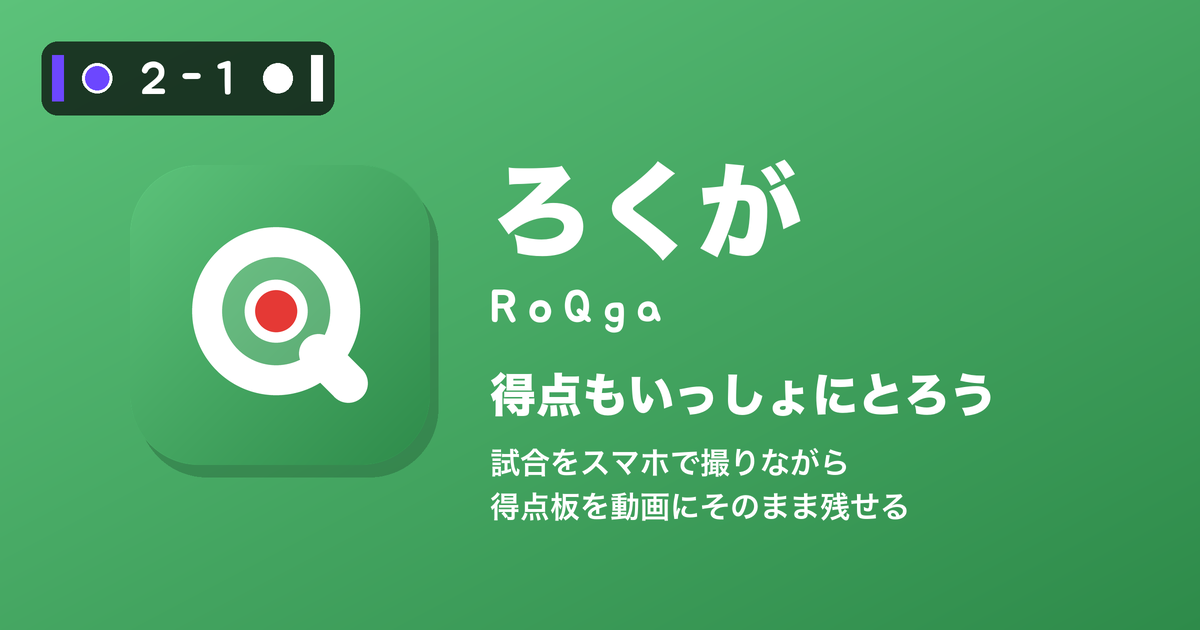
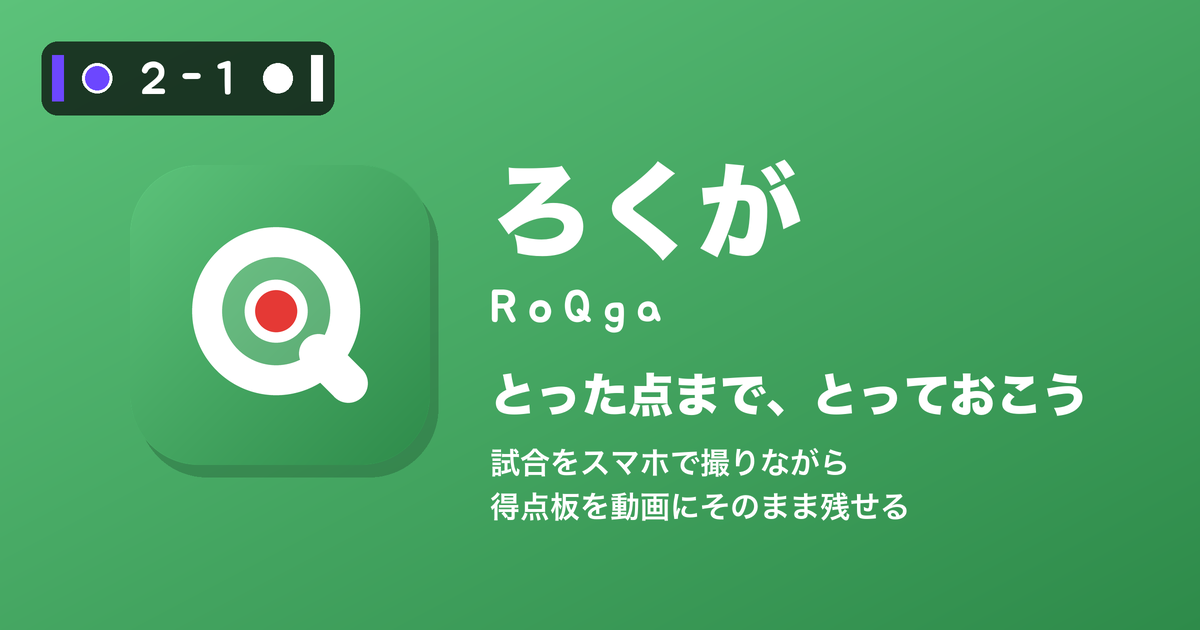
キャッチコピーを「とった点まで、とっておこう」に

Changed region(s): [[0.4008, 0.573, 0.925, 0.6635]]

diff --git a/index.html b/index.html
@@ -11,7 +11,7 @@
 <meta property="og:description" content="試合をスマホで撮りながら、得点板（チーム名とスコア）を動画にそのまま残せます">
 <meta property="og:url" content="https://katsuan.github.io/score-recorder/">
 <meta property="og:locale" content="ja_JP">
-<meta property="og:image" content="https://katsuan.github.io/score-recorder/ogp.png?v=20261021d">
+<meta property="og:image" content="https://katsuan.github.io/score-recorder/ogp.png?v=20261021e">
 <meta property="og:image:width" content="1200">
 <meta property="og:image:height" content="630">
 <meta property="og:image:alt" content="ろくが（RoQga）：試合をスマホで撮りながら、得点板を動画にそのまま残せる">
@@ -24,13 +24,13 @@
 <link rel="manifest" href="manifest.webmanifest">
 <link rel="preconnect" href="https://fonts.googleapis.com">
 <link href="https://fonts.googleapis.com/css2?family=M+PLUS+Rounded+1c:wght@400;700;800&display=swap" rel="stylesheet">
-<link rel="stylesheet" href="style.css?v=202610210351">
+<link rel="stylesheet" href="style.css?v=202610210404">
 </head>
 <body>
 <!-- はじめの画面：チーム名・色を決めて、カメラを開く（さくせん盤で入れたチーム名・色があれば、それを使う） -->
 <main id="setup" class="setup">
   <h1><img class="logo" src="icon.svg" alt="" width="28" height="28">ろくが<small>RoQga</small></h1>
-  <p class="copy">得点もいっしょにとろう</p>
+  <p class="copy">とった点まで、とっておこう</p>
   <p class="lead">試合を撮りながら、得点板（チーム名とスコア）を動画にそのまま入れて残します。<br>スマホは<b>横向き</b>で使います。</p>
   <!-- チーム：得点板と同じく、左が自チーム・右が相手。名前・色・▼（保存したチームから選ぶ）・保存／消す。
        保存したチームは自チーム・相手で同じ一覧（よく当たる相手も保存できる） -->
@@ -149,7 +149,7 @@
   </div>
 </div>
 
-<script src="app.js?v=202610210351"></script>
+<script src="app.js?v=202610210404"></script>
 <!-- おくるんのカードの入口（LIFF ID とカードの URL は line-share の shared/oqrn.js に1か所）と、紹介の窓口 -->
 <script src="https://katsuan.github.io/line-share/shared/oqrn.js"></script>
 <script src="https://katsuan.github.io/line-share/shared/tool-share.js" data-tool="roqga" defer></script>

diff --git a/tools/icon.py b/tools/icon.py
@@ -1,7 +1,7 @@
 #!/usr/bin/env python3
 """ろくが（RoQga）のアイコン・ロゴ・OGP を作る。
 
-名前は「ろくが」（録画）。キャッチコピーは「得点もいっしょにとろう」（撮る＝録画と、取る＝点を取るのかけことば）。英字は RoQga（おくるん＝OQRN・キロっく＝kiloQ と同じ作り方で、「く」を Q にする）。
+名前は「ろくが」（録画）。キャッチコピーは「とった点まで、とっておこう」（取った点＝ゴールまで、撮っておく＝録画のかけことば）。英字は RoQga（おくるん＝OQRN・キロっく＝kiloQ と同じ作り方で、「く」を Q にする）。
 アイコンはおくるんと同じ角の丸い四角に、さくせん盤と同じピッチの緑（さくせん盤の追加アプリなので）。録画のランプだけ赤。
 Q はカメラのレンズの輪：白い輪の真ん中に、録画中の赤いランプ（白い丸の中の赤い点）。Q のしっぽは右下へ、短く太く（細長いと虫めがねに見える）。
 
@@ -78,7 +78,7 @@ def main():
 
     logo, ratio = build_logo(BRAND, SHAPES, C, RING_OUTER)
     (ROOT / "logo.svg").write_text(logo, encoding="utf-8")
-    BRAND.write_ogp(ROOT / "ogp.png", SHAPES, "ろくが", "RoQga", ["試合をスマホで撮りながら", "得点板を動画にそのまま残せる"], scoreboard, copy="得点もいっしょにとろう")
+    BRAND.write_ogp(ROOT / "ogp.png", SHAPES, "ろくが", "RoQga", ["試合をスマホで撮りながら", "得点板を動画にそのまま残せる"], scoreboard, copy="とった点まで、とっておこう")
     print(f"アイコン・logo.svg（高さ 28px なら幅 {28 * ratio:.0f}px）・ogp.png を書き出しました")
 
 
